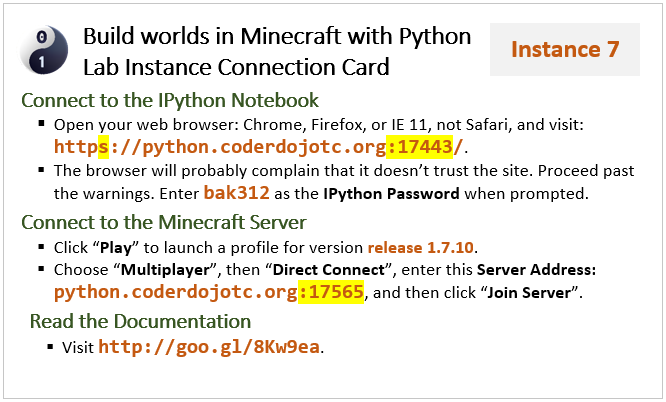
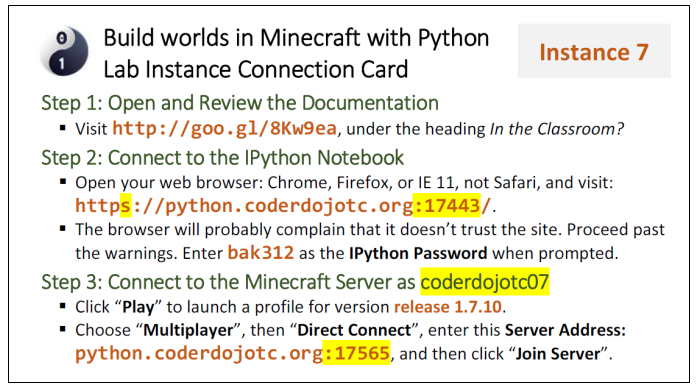
Updated Lab Instance Connection Card image and docs.

diff --git a/docs/classroom/lab-instance.rst b/docs/classroom/lab-instance.rst
@@ -3,14 +3,15 @@
 ==============================
 
 Once you are connected to :doc:`Wi-Fi <wifi>`, you need to turn your
-attention to connecting your PC the IPython Notebook and the Minecraft
-world in your :term:`lab instance`. The diagram below illustrates what
-sits where:
+attention to connecting your PC to the IPython Notebook and the
+Minecraft world in your :term:`lab instance`. The diagram below
+illustrates what sits where:
 
 .. image:: _images/programming-environment.png
 
 The :doc:`architecture guide <../reference/architecture>` explains a
 bit more about the peices in this diagram.
+
 
 Lab Instance Connection Card
 ============================
@@ -26,7 +27,8 @@ The connection card looks something like the following:
 
 Key information found on this card:
 
-* Your Instance Number. If you need to ask a mentor to restart your
+* Your Instance Number. In the upper right corner of the card is your
+  Lab Instance Number. If you need to ask a mentor to restart your
   instance, they will need to know your instance number.
 
   .. note:: Too much TNT? A pyramid made out of beds or water? A
@@ -42,8 +44,13 @@ Key information found on this card:
   a password to make sure only you can access the IPython notebook
   server in your instance.
 
-* Your Minecraft server address. Looks very similar to the IPython
-  URL, but it just contains the server name
+* Your Minecraft/Mojang account name. This is printed on the line that
+  reads "Step 3: Connect to the Minecraft Server as **coderdojo##**"
+  This is the account you should use to log into the Minecraft
+  world. Only this account will be able to make changes in your world.
+
+* Your Minecraft server address. This looks very similar to the
+  IPython URL, but it just contains the server name
   (``python.coderdojotc.org``) and a port number (the digits following
   the colon).
 
@@ -72,6 +79,11 @@ The steps involved in connecting to Minecraft include:
    played Minecraft on your PC, visit the `Minecraft download page
    <https://minecraft.net/download>`_. Download and install the
    appropriate version for your operating system.
+
+#. You will need to log into Minecraft. The account name is printed on
+   the connection card. A mentor will need to log you in. If you are
+   working through these exercises at home, use your personal
+   Minecraft account.
 
 #. Create a profile and make sure it uses version ``release 1.7.10``
    of the game. The image below illustrates what a properly configured

diff --git a/docs/release-notes.rst b/docs/release-notes.rst
@@ -12,6 +12,9 @@ time.
 * The table of contents and navigation between chapters has been
   improved. Some of the section index pages have been improved.
 
+* Improved the layout of the Lab Instance Connection card, and its
+  related documentation.
+
 * Some unnecessary documentation files have been removed.
 
 
